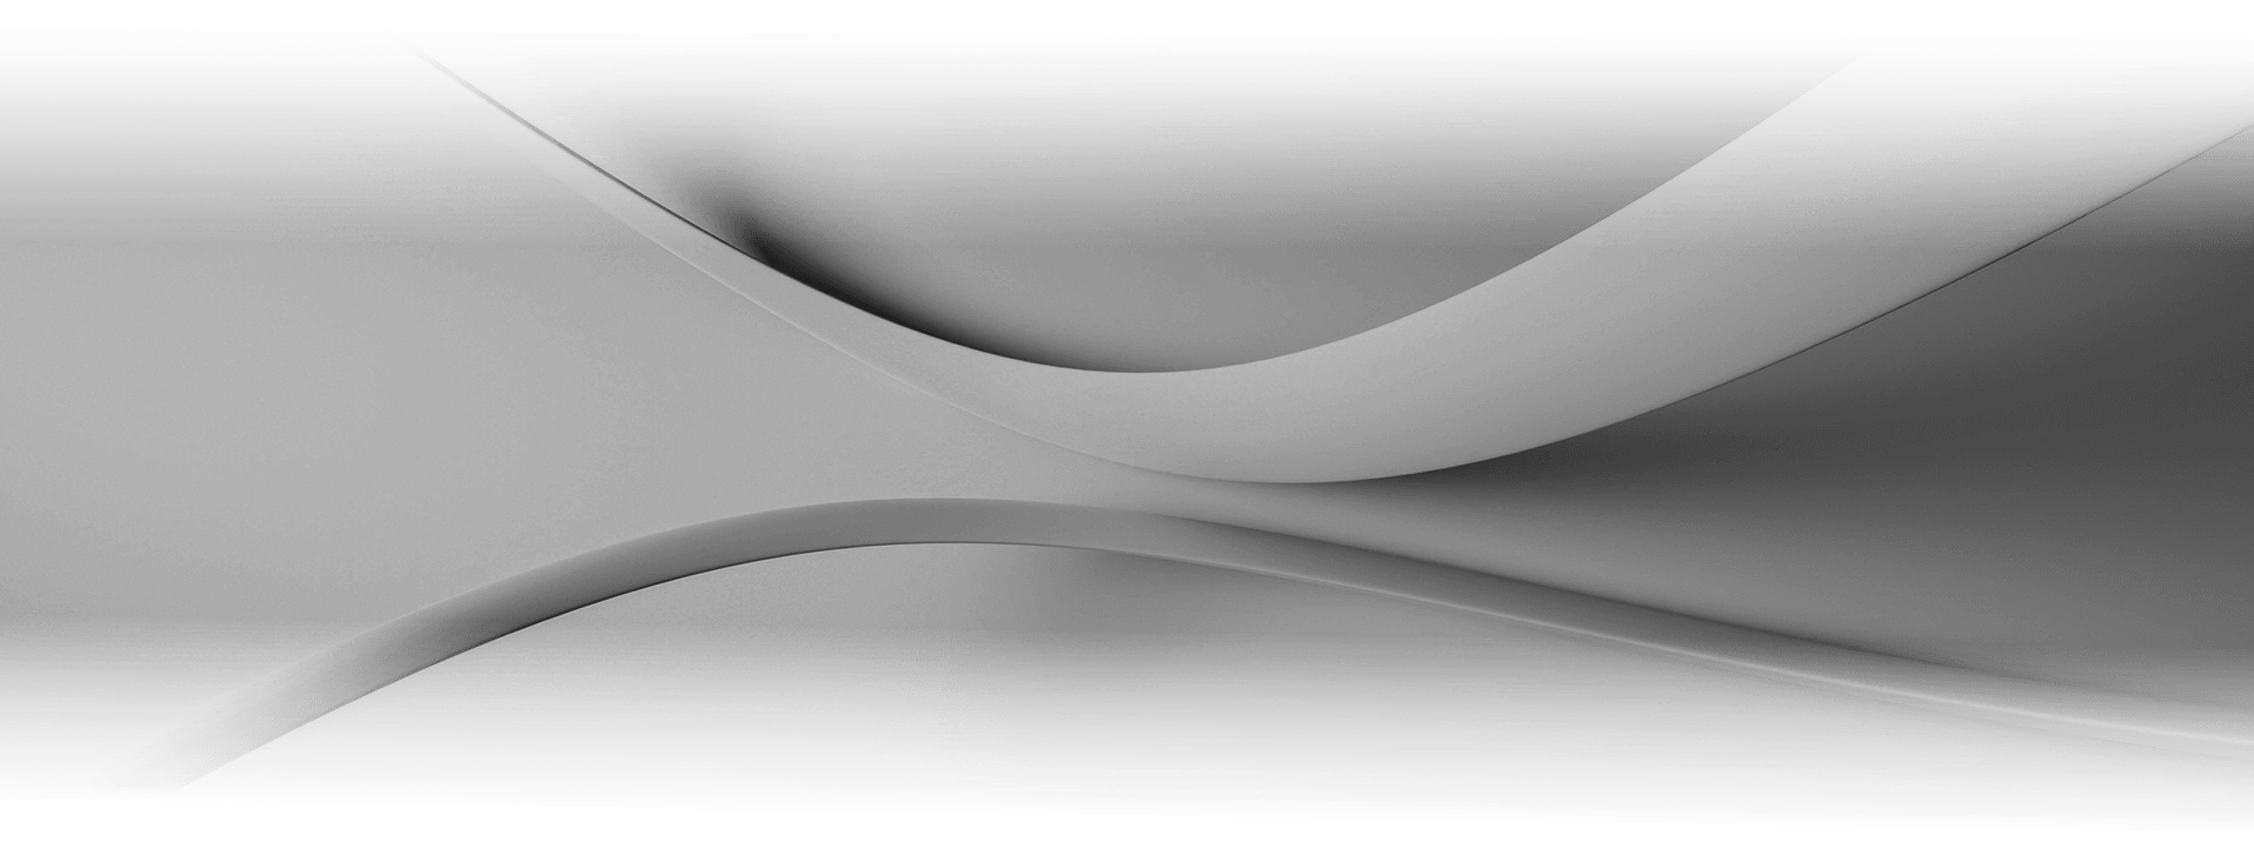
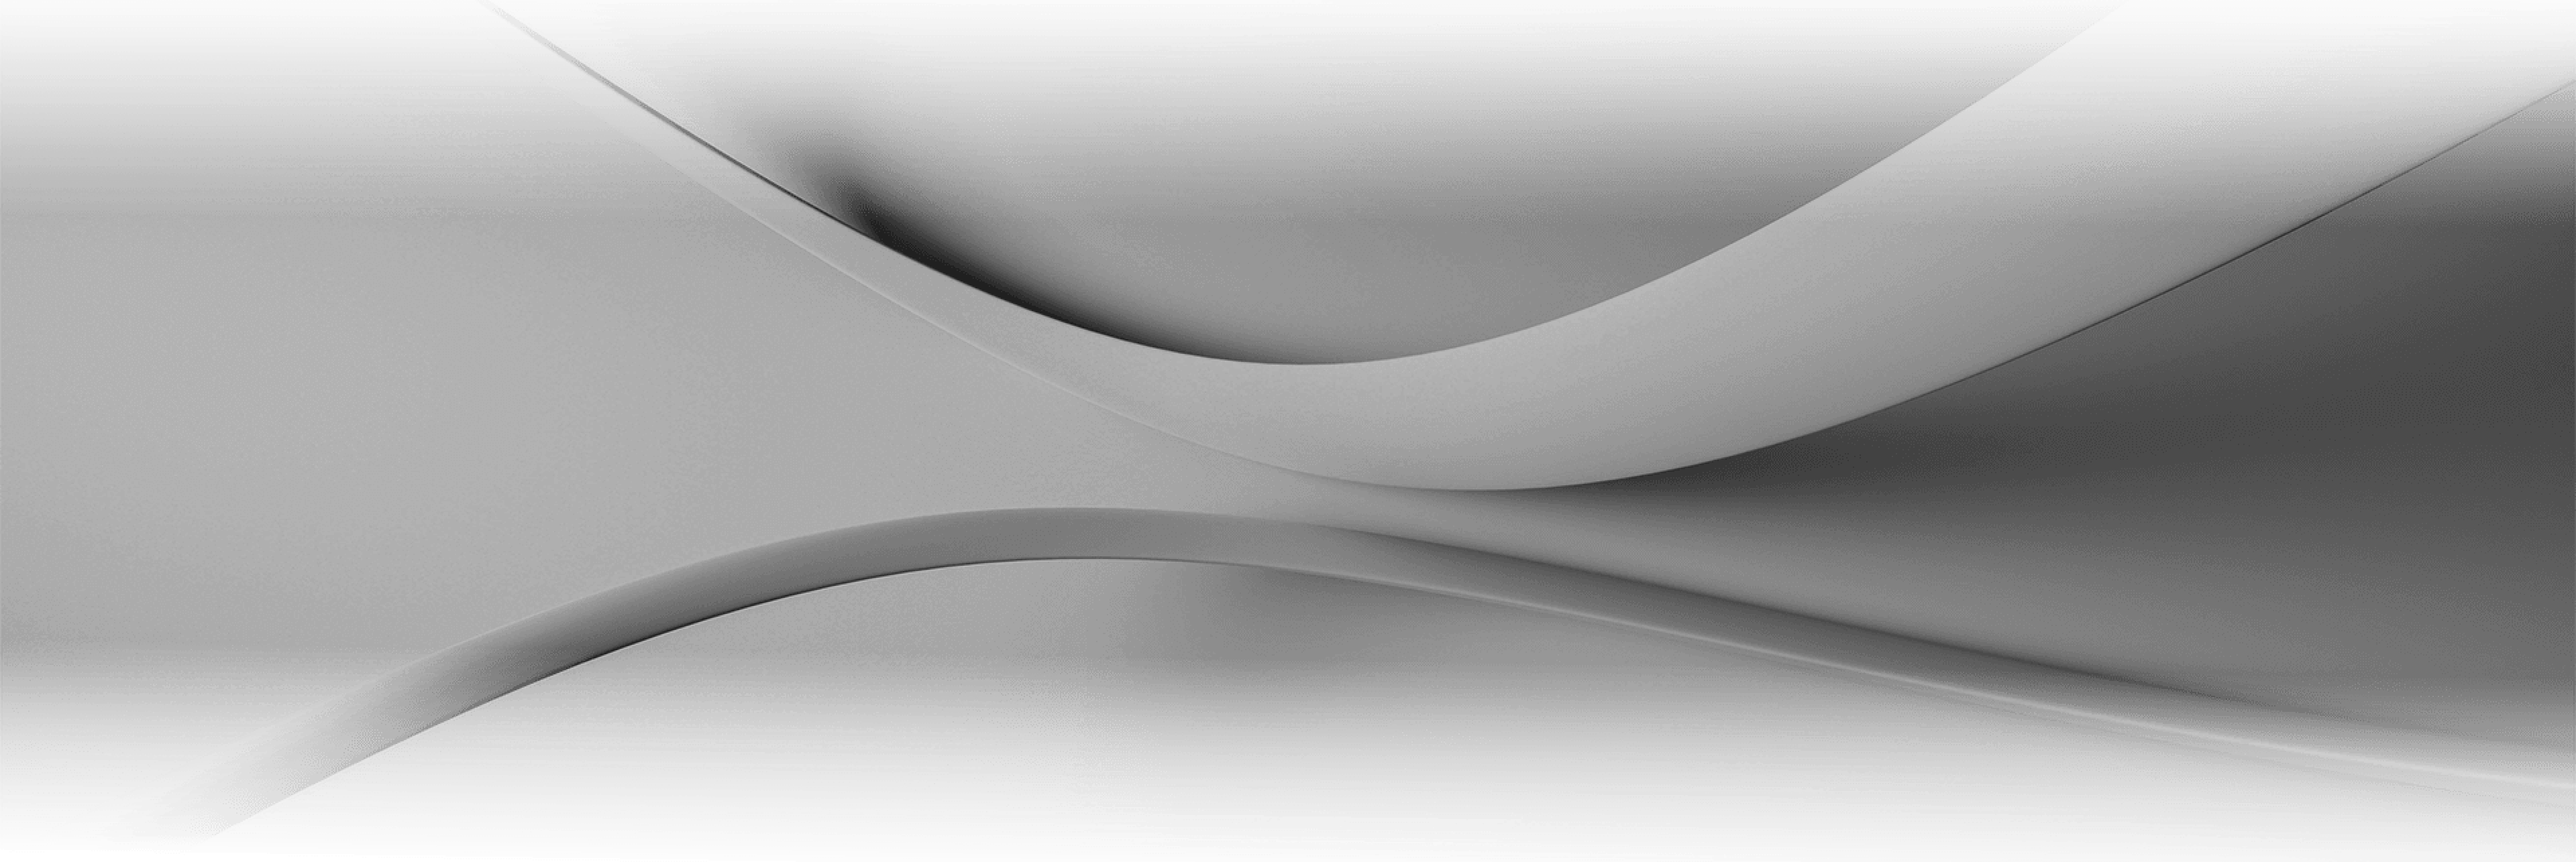
Update

diff --git a/css/styles.css b/css/styles.css
@@ -309,7 +309,7 @@ button
 
     display: block;
 
-    width: 1680px;
+    width: 1920px;
 
     transform: translateX(-50%);
     pointer-events: none;
@@ -320,11 +320,13 @@ button
 
 .first_section .bg.mob
 {
+    top: -52px;
     left: 0;
 
     display: none;
 
     width: 440px;
+    min-height: 100px;
 
     transform: none;
 }
@@ -335,8 +337,8 @@ button
     position: relative;
     z-index: 3;
 
-    padding-top: 216px;
-    padding-bottom: 68px;
+    padding-top: 217px;
+    padding-bottom: 51px;
 }
 
 
@@ -347,7 +349,7 @@ button
     line-height: 128.696%;
 
     margin-bottom: 171px;
-    padding-left: 26.851%;
+    padding-left: 27.2%;
 
     text-transform: uppercase;
 }
@@ -360,7 +362,7 @@ button
     line-height: 128.696%;
 
     margin-bottom: 52px;
-    padding-left: 15.046%;
+    padding-left: 15.5%;
 
     text-transform: uppercase;
 }
@@ -1180,13 +1182,12 @@ button
 
     display: block;
 
-    width: 1680px;
+    width: 1920px;
 
     transform: translateX(-50%);
     pointer-events: none;
 
     mix-blend-mode: color-dodge;
-    object-fit: cover;
 }
 
 
@@ -1200,7 +1201,7 @@ button
 
     display: block;
 
-    width: 1680px;
+    width: 1920px;
 
     transform: translateX(-50%);
     pointer-events: none;
@@ -1216,7 +1217,7 @@ button
 
     display: block;
 
-    width: 1680px;
+    width: 1920px;
 
     transform: translateX(-50%);
     pointer-events: none;
@@ -1232,7 +1233,7 @@ button
 
     display: block;
 
-    width: 1680px;
+    width: 1920px;
 
     transform: translateX(-50%) scale(-1, 1);
     pointer-events: none;
@@ -1248,7 +1249,7 @@ button
 
     display: block;
 
-    width: 1680px;
+    width: 1920px;
 
     transform: translateX(-50%);
     pointer-events: none;
@@ -1453,7 +1454,7 @@ button
 
     display: block;
 
-    width: 1680px;
+    width: 1920px;
     margin: 0 auto;
 }
 
@@ -1660,7 +1661,7 @@ button
 
     display: block;
 
-    width: 1680px;
+    width: 1920px;
 
     transform: translateX(-50%);
     pointer-events: none;
@@ -1676,7 +1677,7 @@ button
 
     display: block;
 
-    width: 1680px;
+    width: 1920px;
 
     transform: translateX(-50%) scale(-1, -1);
     pointer-events: none;
@@ -1694,7 +1695,7 @@ button
 
     display: block;
 
-    width: 1680px;
+    width: 1920px;
 
     transform: translateX(-50%) scale(-1, -1);
     pointer-events: none;
@@ -2237,7 +2238,7 @@ button
 
     display: block;
 
-    width: 1680px;
+    width: 1920px;
 
     transform: translateX(-50%);
     pointer-events: none;
@@ -2255,7 +2256,7 @@ button
 
     display: block;
 
-    width: 1680px;
+    width: 1920px;
 
     transform: translateX(-50%) scale(-1, 1);
     pointer-events: none;
@@ -2620,7 +2621,7 @@ button
 
     display: block;
 
-    width: 1680px;
+    width: 1920px;
 
     transform: translateX(-50%);
     pointer-events: none;
@@ -2933,7 +2934,7 @@ button
 
     display: block;
 
-    width: 1680px;
+    width: 1920px;
 
     transform: translateX(-50%);
     pointer-events: none;
@@ -3382,7 +3383,7 @@ footer .bg
 
     display: block;
 
-    width: 1680px;
+    width: 1920px;
     min-height: 100px;
 
     transform: translateX(-50%);

diff --git a/index.html b/index.html
@@ -20,8 +20,8 @@
 		<meta name="keywords" content="">
 
 		<!-- Changing the color of the mobile browser panel -->
-		<meta name="msapplication-TileColor" content="#08182A">
-		<meta name="theme-color" content="#08182A">
+		<meta name="msapplication-TileColor" content="#001d37">
+		<meta name="theme-color" content="#001d37">
 
 		<!-- Connecting fonts from Google -->
 		<link rel="preconnect" href="https://fonts.googleapis.com">

diff --git a/css/response_767.css b/css/response_767.css
@@ -19,6 +19,8 @@
     .first_section
     {
         z-index: 5;
+
+        overflow: hidden;
     }
 
 
@@ -36,7 +38,7 @@
 
     .first_section .cont
     {
-        padding-top: 341px;
+        padding-top: 388px;
     }
 
 
@@ -206,7 +208,7 @@
 
     .our_resources .swiper-slide.active .item img
     {
-        transform: scale(1.35);
+        transform: scale(1.9);
     }
 
 
